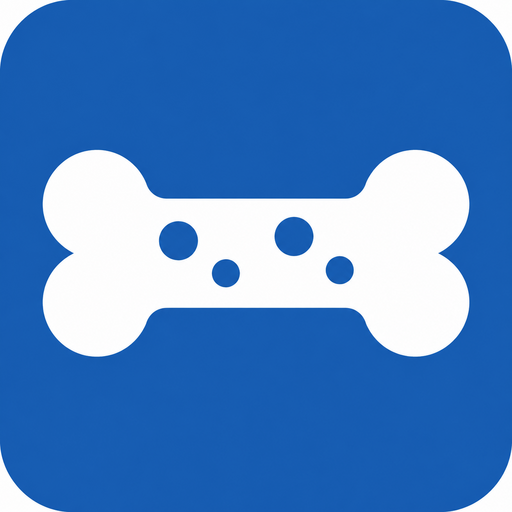
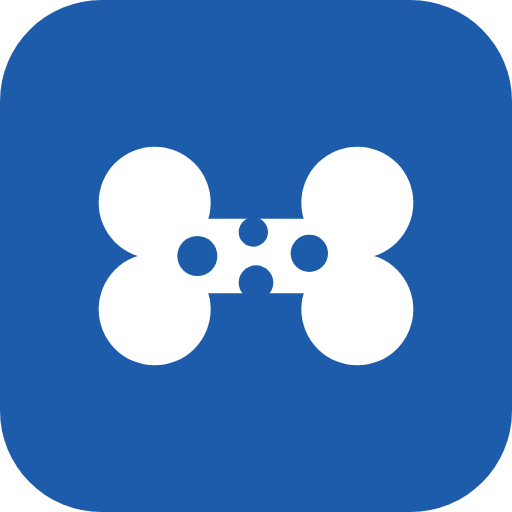
Make adding the app to the home screen easy on iPhone and Android
- A guide for this phone and browser: iPhone/iPad Safari, iPhone Chrome
  (Share in the address bar), other iPhone browsers (open in Safari),
  Android Chrome (⋮ → Install app), Samsung Internet (☰ → Add page to),
  LINE (open in the browser first), a computer (QR code). Each step shows
  the button as the phone draws it, and the icon that will appear.
- Where Chrome offers it, "Install now" installs in one tap, from the
  banner or the guide.
- The banner now shows on Android too, with "Show me how"; a footer link
  "Add the app to your home screen" stays until the app is installed.
- Real icons: PNG 192/512 and a maskable 512 in the manifest, a 180px
  apple-touch-icon (iPhones ignore an SVG one and use a screenshot), all
  from the current logo and cached for offline use. Chrome reports the app
  installable with no errors.
- Fix: the banner covered the footer's links; the page now makes room.

Cache osteo-care-v14; t21 covers icons, platforms and the footer.

Claude-Session: https://claude.ai/code/session_01C6wdGtSQBLbRCbAtUY5QHJ

diff --git a/app-ui.js b/app-ui.js
@@ -38,6 +38,7 @@
   var onboardingIndex = 0;
   var showingTierResult = false;
   var deferredInstallPrompt = null;
+  var installGuideOpen = false;
   var checkin = { open: false, steps: [], index: 0, fallLogged: false, missedDoses: false };
   var nutrition = { open: false, step: 0, draft: null, result: null };
   var pendingMedClassId = null;
@@ -623,6 +624,7 @@
       else if (fraxFormOpen) overlay.innerHTML = '<div class="overlay"><div class="modal">' + renderFraxForm() + '</div></div>';
       else if (hnChange.step) overlay.innerHTML = '<div class="overlay"><div class="modal">' + renderHnChange() + '</div></div>';
       else if (detailsChange.step) overlay.innerHTML = '<div class="overlay"><div class="modal">' + renderDetailsChange() + '</div></div>';
+      else if (installGuideOpen) overlay.innerHTML = '<div class="overlay"><div class="modal">' + renderInstallGuide() + '</div></div>';
       else if (resetConfirmOpen) overlay.innerHTML = '<div class="overlay"><div class="modal">' + renderResetConfirm() + '</div></div>';
       else if (reminderOpen) overlay.innerHTML = '<div class="overlay"><div class="modal">' + renderDoseReminder() + '</div></div>';
     }
@@ -662,6 +664,8 @@
     }
     html += '<div>' + esc(tr('footerDoctorLabel')) + '</div>' +
       '<div class="doctor">' + esc(loc(C.DOCTOR.name)) + '</div>' +
+      (state.registered && installPlatform() !== 'installed'
+        ? '<button type="button" class="reset-link install-link" data-action="open-install">' + esc(tr('installLink')) + '</button><br>' : '') +
       (state.registered ? '<button type="button" class="reset-link" data-action="open-hn-change">' + esc(tr('hnChangeLink')) + '</button><br>' +
         '<button type="button" class="reset-link" data-action="open-details-change">' + esc(tr('detailsChangeLink')) + '</button><br>' : '') +
       '<button type="button" class="reset-link" data-action="open-reset">' + esc(tr('resetButton')) + '</button>' +
@@ -2904,30 +2908,109 @@
       '<a class="btn secondary" href="' + esc(externalBrowserUrl()) + '">' + esc(tr('lineBrowserOpen')) + '</a></div>';
   }
 
-  /** iPhone Safari has no install prompt: the patient needs to be told where the button is. */
-  function isIosSafari() {
+  function isStandalone() {
+    return window.matchMedia('(display-mode: standalone)').matches || window.navigator.standalone === true;
+  }
+
+  /**
+   * Where the app is open, as far as adding it to the home screen goes. Each
+   * phone and browser puts the button somewhere else, so the guide shows only
+   * the steps for this one. iPadOS Safari calls itself a Mac; touch gives it away.
+   */
+  function installPlatform() {
     var ua = navigator.userAgent || '';
-    return /iPhone|iPad|iPod/.test(ua) && !/CriOS|FxiOS|EdgiOS|\bLine\//i.test(ua);
+    if (isStandalone()) return 'installed';
+    if (inLineApp() || /FBAN|FBAV|Instagram/i.test(ua)) return 'inapp';
+    var ios = /iPhone|iPad|iPod/.test(ua) || (/Macintosh/.test(ua) && navigator.maxTouchPoints > 1);
+    if (ios) return /CriOS|EdgiOS/.test(ua) ? 'ios-chrome' : /FxiOS|OPiOS/.test(ua) ? 'ios-other' : 'ios-safari';
+    if (/Android/i.test(ua)) return /SamsungBrowser/i.test(ua) ? 'android-samsung' : 'android';
+    return 'desktop';
+  }
+
+  /** iPhone Safari has no install prompt: the patient needs to be told where the button is. */
+  function isIosSafari() { return installPlatform() === 'ios-safari'; }
+
+  // The buttons as the phone draws them, so the patient knows what to look for.
+  var INSTALL_GLYPHS = {
+    share: '<svg viewBox="0 0 24 24" aria-hidden="true"><path d="M12 15V3M7.5 7.5 12 3l4.5 4.5" fill="none" stroke="currentColor" stroke-width="2" stroke-linecap="round" stroke-linejoin="round"/><path d="M8 10H5.5v10.5h13V10H16" fill="none" stroke="currentColor" stroke-width="2" stroke-linejoin="round"/></svg>',
+    add: '<svg viewBox="0 0 24 24" aria-hidden="true"><rect x="3.5" y="3.5" width="17" height="17" rx="4" fill="none" stroke="currentColor" stroke-width="2"/><path d="M12 8v8M8 12h8" stroke="currentColor" stroke-width="2" stroke-linecap="round"/></svg>',
+    more: '<svg viewBox="0 0 24 24" aria-hidden="true"><circle cx="12" cy="5" r="2" fill="currentColor"/><circle cx="12" cy="12" r="2" fill="currentColor"/><circle cx="12" cy="19" r="2" fill="currentColor"/></svg>',
+    menu: '<svg viewBox="0 0 24 24" aria-hidden="true"><path d="M4 6h16M4 12h16M4 18h16" stroke="currentColor" stroke-width="2" stroke-linecap="round"/></svg>',
+    tap: '<svg viewBox="0 0 24 24" aria-hidden="true"><path d="M9 11V5.5a1.5 1.5 0 0 1 3 0V10m0-1.5a1.5 1.5 0 0 1 3 0V11m0-1a1.5 1.5 0 0 1 3 0v4.5c0 3.5-2.5 6-6 6s-4.5-1.5-6.5-4l-1.8-2.6a1.4 1.4 0 0 1 2.2-1.7L9 14" fill="none" stroke="currentColor" stroke-width="1.8" stroke-linecap="round" stroke-linejoin="round"/></svg>'
+  };
+
+  function installSteps(where) {
+    var steps = {
+      'ios-safari': [['share', 'installIosSafari1'], ['add', 'installIosSafari2'], ['tap', 'installIosSafari3']],
+      'ios-chrome': [['share', 'installIosChrome1'], ['add', 'installIosSafari2'], ['tap', 'installIosSafari3']],
+      android: [['more', 'installAndroid1'], ['add', 'installAndroid2'], ['tap', 'installAndroid3']],
+      'android-samsung': [['menu', 'installSamsung1'], ['add', 'installSamsung2'], ['tap', 'installAndroid3']]
+    }[where] || [];
+    return '<ol class="install-steps">' + steps.map(function (step, i) {
+      return '<li><span class="step-n">' + (i + 1) + '</span><span class="step-ico">' + INSTALL_GLYPHS[step[0]] + '</span>' +
+        '<span class="step-text">' + esc(tr(step[1])) + '</span></li>';
+    }).join('') + '</ol>';
+  }
+
+  function renderInstallGuide() {
+    var where = installPlatform();
+    var html = '<div class="card-head"><img class="install-icon" src="apple-touch-icon.png" alt="" width="48" height="48">' +
+      '<h2 style="margin:0;">' + esc(tr('installTitle')) + '</h2></div>';
+    if (where === 'installed') {
+      html += '<p class="status-line good">✓ ' + esc(tr('installDone')) + '</p>';
+    } else if (where === 'inapp') {
+      html += lineNotice();
+    } else {
+      html += '<p>' + esc(tr('installWhy')) + '</p>';
+      if (deferredInstallPrompt) {
+        // Android Chrome (and desktop Chrome) can install in one tap.
+        html += '<p>' + esc(tr('installOneTap')) + '</p>' +
+          '<button type="button" class="btn" data-action="install-a2hs">' + esc(tr('installNow')) + '</button>';
+      } else if (where === 'desktop') {
+        html += '<p>' + esc(tr('installDesktop')) + '</p><img class="install-qr" src="app-qr.png" alt="QR" width="200" height="200">';
+      } else if (where === 'ios-other') {
+        html += '<p>' + esc(tr('installIosOther')) + '</p><p class="big-hn" style="font-size:1.1rem;letter-spacing:0;">' + esc(location.origin + '/') + '</p>' +
+          installSteps('ios-safari');
+      } else {
+        html += installSteps(where);
+      }
+      if (where !== 'desktop') {
+        html += '<div class="install-result"><img src="apple-touch-icon.png" alt="" width="56" height="56">' +
+          '<span><strong>' + esc(tr('appName')) + '</strong><br><span class="muted">' + esc(tr('installResult')) + '</span></span></div>';
+      }
+    }
+    return html + '<button type="button" class="btn secondary" style="margin-top:14px;" data-action="close-install">' + esc(tr('close')) + '</button>';
   }
 
   function renderA2hs() {
     var banner = $('#a2hsBanner');
-    var standalone = window.matchMedia('(display-mode: standalone)').matches || window.navigator.standalone;
+    var where = installPlatform();
     // Not before onboarding is done: the banner is fixed to the bottom of the
     // screen and would sit over the questionnaire's Next button.
-    if (standalone || state.a2hsDismissed || !state.registered || !state.boneStatus || inLineApp() ||
-        (!deferredInstallPrompt && !isIosSafari())) {
+    if (where === 'installed' || where === 'inapp' || state.a2hsDismissed || !state.registered || !state.boneStatus ||
+        installGuideOpen || (where === 'desktop' && !deferredInstallPrompt)) {
       banner.hidden = true;
+      document.body.style.paddingBottom = '';
       return;
     }
     banner.hidden = false;
-    banner.innerHTML = deferredInstallPrompt
-      ? '<p>' + esc(tr('a2hsPrompt')) + '</p><div class="a2hs-actions">' +
-        '<button type="button" class="install" data-action="install-a2hs">' + esc(tr('a2hsInstall')) + '</button>' +
-        '<button type="button" class="dismiss" data-action="dismiss-a2hs">' + esc(tr('a2hsDismiss')) + '</button></div>'
-      : '<p>' + esc(tr('a2hsIos')) + '</p><div class="a2hs-actions">' +
-        '<button type="button" class="dismiss" data-action="dismiss-a2hs">' + esc(tr('a2hsDismiss')) + '</button></div>';
+    var bannerText = where.indexOf('ios') === 0 ? tr('a2hsIos') : tr('a2hsPrompt');
+    banner.innerHTML = '<p>' + esc(bannerText) + '</p><div class="a2hs-actions">' +
+      (deferredInstallPrompt
+        ? '<button type="button" class="install" data-action="install-a2hs">' + esc(tr('installNow')) + '</button>'
+        : '<button type="button" class="install" data-action="open-install">' + esc(tr('installHow')) + '</button>') +
+      '<button type="button" class="dismiss" data-action="dismiss-a2hs">' + esc(tr('a2hsDismiss')) + '</button></div>';
+    // The banner floats over the bottom of the page: make room for it, or it
+    // covers the footer's links (install, change HN, erase).
+    document.body.style.paddingBottom = (88 + banner.offsetHeight + 12) + 'px';
   }
+
+  window.addEventListener('appinstalled', function () {
+    deferredInstallPrompt = null;
+    state.a2hsDismissed = true;
+    saveState();
+    render();
+  });
 
   /* ---------- timers ---------- */
 
@@ -3500,10 +3583,22 @@
     } else if (action === 'checkin-finish') {
       completeCheckin();
 
+    } else if (action === 'open-install') {
+      installGuideOpen = true;
+      render();
+
+    } else if (action === 'close-install') {
+      installGuideOpen = false;
+      render();
+
     } else if (action === 'install-a2hs') {
       if (deferredInstallPrompt) {
         deferredInstallPrompt.prompt();
-        deferredInstallPrompt.userChoice.then(function () { deferredInstallPrompt = null; renderA2hs(); });
+        deferredInstallPrompt.userChoice.then(function (choice) {
+          deferredInstallPrompt = null;
+          if (choice && choice.outcome === 'accepted') installGuideOpen = false;
+          render();
+        });
       }
     } else if (action === 'dismiss-a2hs') {
       state.a2hsDismissed = true;

diff --git a/app-core.js b/app-core.js
@@ -25,8 +25,27 @@
     tabTitleSafety: t('ป้องกันการล้ม', 'Fall Prevention'),
 
     a2hsPrompt: t('เพิ่มแอปนี้ไว้ที่หน้าจอหลัก เพื่อเปิดใช้ได้สะดวกขึ้น', 'Add this app to your home screen for easier access'),
-    a2hsInstall: t('เพิ่มลงหน้าจอหลัก', 'Add to Home Screen'),
     a2hsDismiss: t('ไว้ภายหลัง', 'Not now'),
+    close: t('ปิด', 'Close'),
+    installTitle: t('เพิ่มแอปไว้ที่หน้าจอหลัก', 'Add the app to your home screen'),
+    installWhy: t('เปิดได้ทันทีจากไอคอนบนหน้าจอ เหมือนแอปทั่วไป ใช้ได้แม้ไม่มีอินเทอร์เน็ต', 'Open it straight from an icon, like any app. It works without the internet too.'),
+    installLink: t('📲 เพิ่มแอปไว้ที่หน้าจอหลัก', '📲 Add the app to your home screen'),
+    installNow: t('ติดตั้งเลย', 'Install now'),
+    installHow: t('ดูวิธี', 'Show me how'),
+    installDone: t('ติดตั้งแล้ว เปิดแอปจากไอคอน "ดูแลกระดูกพรุน" บนหน้าจอหลักได้เลย', 'Installed. Open the app from the "ดูแลกระดูกพรุน" icon on your home screen.'),
+    installOneTap: t('แตะปุ่มด้านล่าง แล้วแตะ "ติดตั้ง" ในหน้าต่างที่ขึ้นมา', 'Tap the button below, then "Install" in the window that appears.'),
+    installResult: t('ไอคอนนี้จะอยู่บนหน้าจอหลัก', 'This icon appears on your home screen'),
+    installIosSafari1: t('แตะปุ่มแชร์ ที่แถบด้านล่างของจอ (บน iPad อยู่มุมขวาบน)', 'Tap the Share button in the bar at the bottom (top right on an iPad)'),
+    installIosSafari2: t('เลื่อนลง แล้วแตะ "เพิ่มไปยังหน้าจอโฮม"', 'Scroll down and tap "Add to Home Screen"'),
+    installIosSafari3: t('แตะ "เพิ่ม" ที่มุมขวาบน', 'Tap "Add" at the top right'),
+    installIosChrome1: t('แตะปุ่มแชร์ ในช่องที่อยู่เว็บด้านบน', 'Tap the Share button in the address bar at the top'),
+    installIosOther: t('เบราว์เซอร์นี้เพิ่มแอปไว้ที่หน้าจอหลักไม่ได้ กรุณาเปิดที่อยู่นี้ใน Safari แล้วทำตามขั้นตอน', 'This browser cannot add apps to the home screen. Open this address in Safari, then follow the steps.'),
+    installAndroid1: t('แตะปุ่ม ⋮ ที่มุมขวาบน', 'Tap the ⋮ button at the top right'),
+    installAndroid2: t('แตะ "ติดตั้งแอป" หรือ "เพิ่มลงในหน้าจอหลัก"', 'Tap "Install app" or "Add to Home screen"'),
+    installAndroid3: t('แตะ "ติดตั้ง" หรือ "เพิ่ม"', 'Tap "Install" or "Add"'),
+    installSamsung1: t('แตะปุ่มเมนู ☰ ที่แถบด้านล่าง', 'Tap the menu button ☰ in the bar at the bottom'),
+    installSamsung2: t('แตะ "เพิ่มหน้าลงใน" แล้วเลือก "หน้าจอหลัก"', 'Tap "Add page to", then "Home screen"'),
+    installDesktop: t('แอปนี้ออกแบบไว้ใช้บนโทรศัพท์ สแกนคิวอาร์โค้ดนี้ด้วยกล้องโทรศัพท์เพื่อเปิด แล้วเพิ่มไว้ที่หน้าจอหลัก', 'The app is made for phones. Scan this code with your phone camera to open it, then add it to the home screen.'),
     a2hsIos: t('เพิ่มแอปไว้ที่หน้าจอหลัก: แตะปุ่มแชร์ (สี่เหลี่ยมมีลูกศรชี้ขึ้น) แล้วเลือก "เพิ่มไปยังหน้าจอโฮม"', 'Add this app to your home screen: tap the Share button (a square with an arrow) and choose "Add to Home Screen"'),
     lineBrowserNotice: t('ท่านเปิดแอปจากในแอป LINE ข้อมูลที่บันทึกในหน้าต่างนี้อาจหายได้ และเพิ่มไว้ที่หน้าจอหลักไม่ได้ กรุณาเปิดในเบราว์เซอร์ของโทรศัพท์', 'You opened this app inside LINE, where saved records can be lost and the app cannot be added to your home screen. Please open it in your phone\'s browser.'),
     lineBrowserOpen: t('เปิดในเบราว์เซอร์', 'Open in the browser'),

diff --git a/index.html b/index.html
@@ -17,7 +17,7 @@
 <meta name="apple-mobile-web-app-title" content="ดูแลกระดูกพรุน">
 <link rel="manifest" href="manifest.webmanifest">
 <link rel="icon" href="icon.svg" type="image/svg+xml">
-<link rel="apple-touch-icon" href="icon.svg">
+<link rel="apple-touch-icon" sizes="180x180" href="apple-touch-icon.png">
 <title>ดูแลกระดูกพรุน — Osteoporosis Care</title>
 <style>
   :root {
@@ -469,6 +469,26 @@
   .wheel-readout { margin: 8px 0 0; font-weight: 700; color: var(--primary-dark); }
   .wheel-readout.prompt { font-weight: 600; color: var(--muted); }
   .wheel-readout.prompt.nudge { color: var(--critical); font-weight: 700; }
+
+  /* --- Add to home screen: the steps for this phone, with its own buttons drawn */
+  .install-icon { border-radius: 12px; flex: 0 0 48px; }
+  .install-steps { list-style: none; padding: 0; margin: 14px 0 0; }
+  .install-steps li { display: flex; align-items: center; gap: 12px; padding: 10px 0; border-bottom: 1px solid var(--border); }
+  .install-steps li:last-child { border-bottom: 0; }
+  .install-steps .step-n {
+    flex: 0 0 32px; height: 32px; border-radius: 50%; background: var(--primary); color: #fff;
+    font-weight: 800; display: flex; align-items: center; justify-content: center;
+  }
+  .install-steps .step-ico {
+    flex: 0 0 44px; height: 44px; border-radius: 10px; background: var(--surface-alt); color: var(--primary);
+    display: flex; align-items: center; justify-content: center;
+  }
+  .install-steps .step-ico svg { width: 26px; height: 26px; }
+  .install-steps .step-text { flex: 1; min-width: 0; font-weight: 600; }
+  .install-result { display: flex; align-items: center; gap: 12px; margin-top: 14px; padding: 12px; border-radius: 14px; background: var(--surface-alt); }
+  .install-result img { border-radius: 13px; flex: 0 0 56px; }
+  .install-qr { display: block; margin: 10px auto 0; image-rendering: pixelated; }
+  .install-link { font-weight: 700; }
 
   /* --- How many times: one big tap per answer ---------------------------- */
   .count-grid { display: grid; grid-template-columns: repeat(3, 1fr); gap: 10px; margin-top: 12px; }

diff --git a/tests/t21_caches_and_hosting.js b/tests/t21_caches_and_hosting.js
@@ -142,6 +142,34 @@ function run() {
     }
   });
 
+  cases.push({
+    name: 'the app can be added to the home screen on iPhone and Android, with real icons',
+    fn: function () {
+      var manifest = JSON.parse(fs.readFileSync(path.join(root, 'manifest.webmanifest'), 'utf8'));
+      var png = function (size, purpose) {
+        return manifest.icons.filter(function (i) { return i.type === 'image/png' && i.sizes === size && i.purpose === purpose; })[0];
+      };
+      // Android Chrome installs only with PNG icons of 192 and 512.
+      helpers.assert(png('192x192', 'any') && png('512x512', 'any') && png('512x512', 'maskable'), 'manifest PNG icons');
+      helpers.assertEqual(manifest.display, 'standalone');
+      var page = fs.readFileSync(path.join(root, 'index.html'), 'utf8');
+      // iPhones ignore an SVG home-screen icon and show a screenshot instead.
+      helpers.assert(/<link rel="apple-touch-icon" sizes="180x180" href="apple-touch-icon.png">/.test(page), 'iPhone PNG icon');
+      ['icon-192.png', 'icon-512.png', 'icon-maskable-512.png', 'apple-touch-icon.png'].forEach(function (f) {
+        helpers.assert(fs.statSync(path.join(root, f)).size > 1000, f + ' missing');
+        var sw = fs.readFileSync(path.join(root, 'sw.js'), 'utf8');
+        helpers.assert(sw.indexOf("'./" + f + "'") !== -1, f + ' not kept for offline use');
+      });
+      var ui = fs.readFileSync(path.join(root, 'app-ui.js'), 'utf8');
+      var steps = (ui.match(/function installSteps\(where\) \{[\s\S]*?\n  \}/) || [''])[0];
+      ["'ios-safari'", "'ios-chrome'", 'android:', "'android-samsung'"].forEach(function (k) {
+        helpers.assert(steps.indexOf(k) !== -1, 'no steps for ' + k);
+      });
+      helpers.assert(/data-action="open-install"/.test(ui) && /installPlatform\(\) !== 'installed'/.test(ui), 'a way to the guide that stays until installed');
+      helpers.assert(/document\.body\.style\.paddingBottom = \(88 \+ banner\.offsetHeight/.test(ui), 'the banner must not cover the footer');
+    }
+  });
+
   return helpers.runSuite('t21_caches_and_hosting', cases);
 }
 

diff --git a/sw.js b/sw.js
@@ -2,14 +2,18 @@
 // be shared with other apps (GitHub Pages serves all of an account's sites
 // from one origin), so a new version deletes only its own old caches.
 var CACHE_PREFIX = 'osteo-care-';
-var CACHE_NAME = CACHE_PREFIX + 'v13';
+var CACHE_NAME = CACHE_PREFIX + 'v14';
 var SHELL_FILES = [
   './',
   './index.html',
   './app-core.js',
   './app-ui.js',
   './manifest.webmanifest',
-  './icon.svg'
+  './icon.svg',
+  './icon-192.png',
+  './icon-512.png',
+  './icon-maskable-512.png',
+  './apple-touch-icon.png'
 ];
 
 self.addEventListener('install', function (event) {
